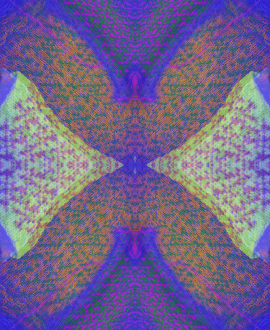
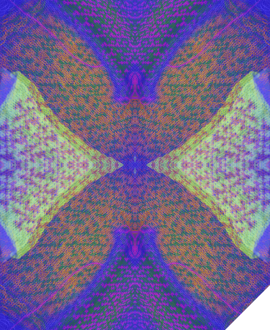
Add new card backgrounds

Changed region(s): [[0.8296, 0.8485, 1.0, 1.0]]

diff --git a/components/SampleCard.vue b/components/SampleCard.vue
@@ -214,7 +214,7 @@ export default {
 }
 
 .front-side {
-  background: linear-gradient(315deg, transparent 22px, #f1f1f1 22px);
+  background: linear-gradient(315deg, transparent 30px, #f1f1f1 30px);
   background-size: cover;
   background-repeat: no-repeat;
 }
@@ -285,7 +285,7 @@ a {
 }
 
 .back-side {
-  background: linear-gradient(45deg, transparent 22px, black 22px);
+  background: linear-gradient(45deg, transparent 30px, black 30px);
   color: white;
   transform: rotateY(180deg);
   font-family: var(--roboto);
